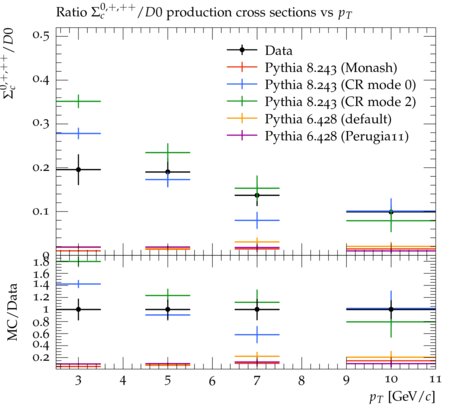
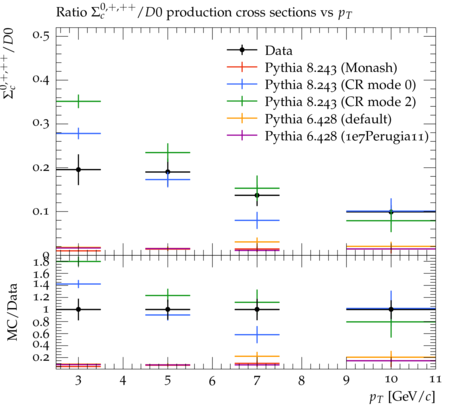
Created plots with new Perugia 1e7 events

diff --git a/RivSc/PythiaComparison/RivSc/index.html b/RivSc/PythiaComparison/RivSc/index.html
@@ -37,7 +37,7 @@
 </section>
 
 <footer style="clear:both; margin-top:3em; padding-top:3em">
-<p>Generated at Tuesday, 15. December 2020 10:37AM</p>
+<p>Generated at Wednesday, 16. December 2020 12:34PM</p>
 </footer>
 
 </body>
